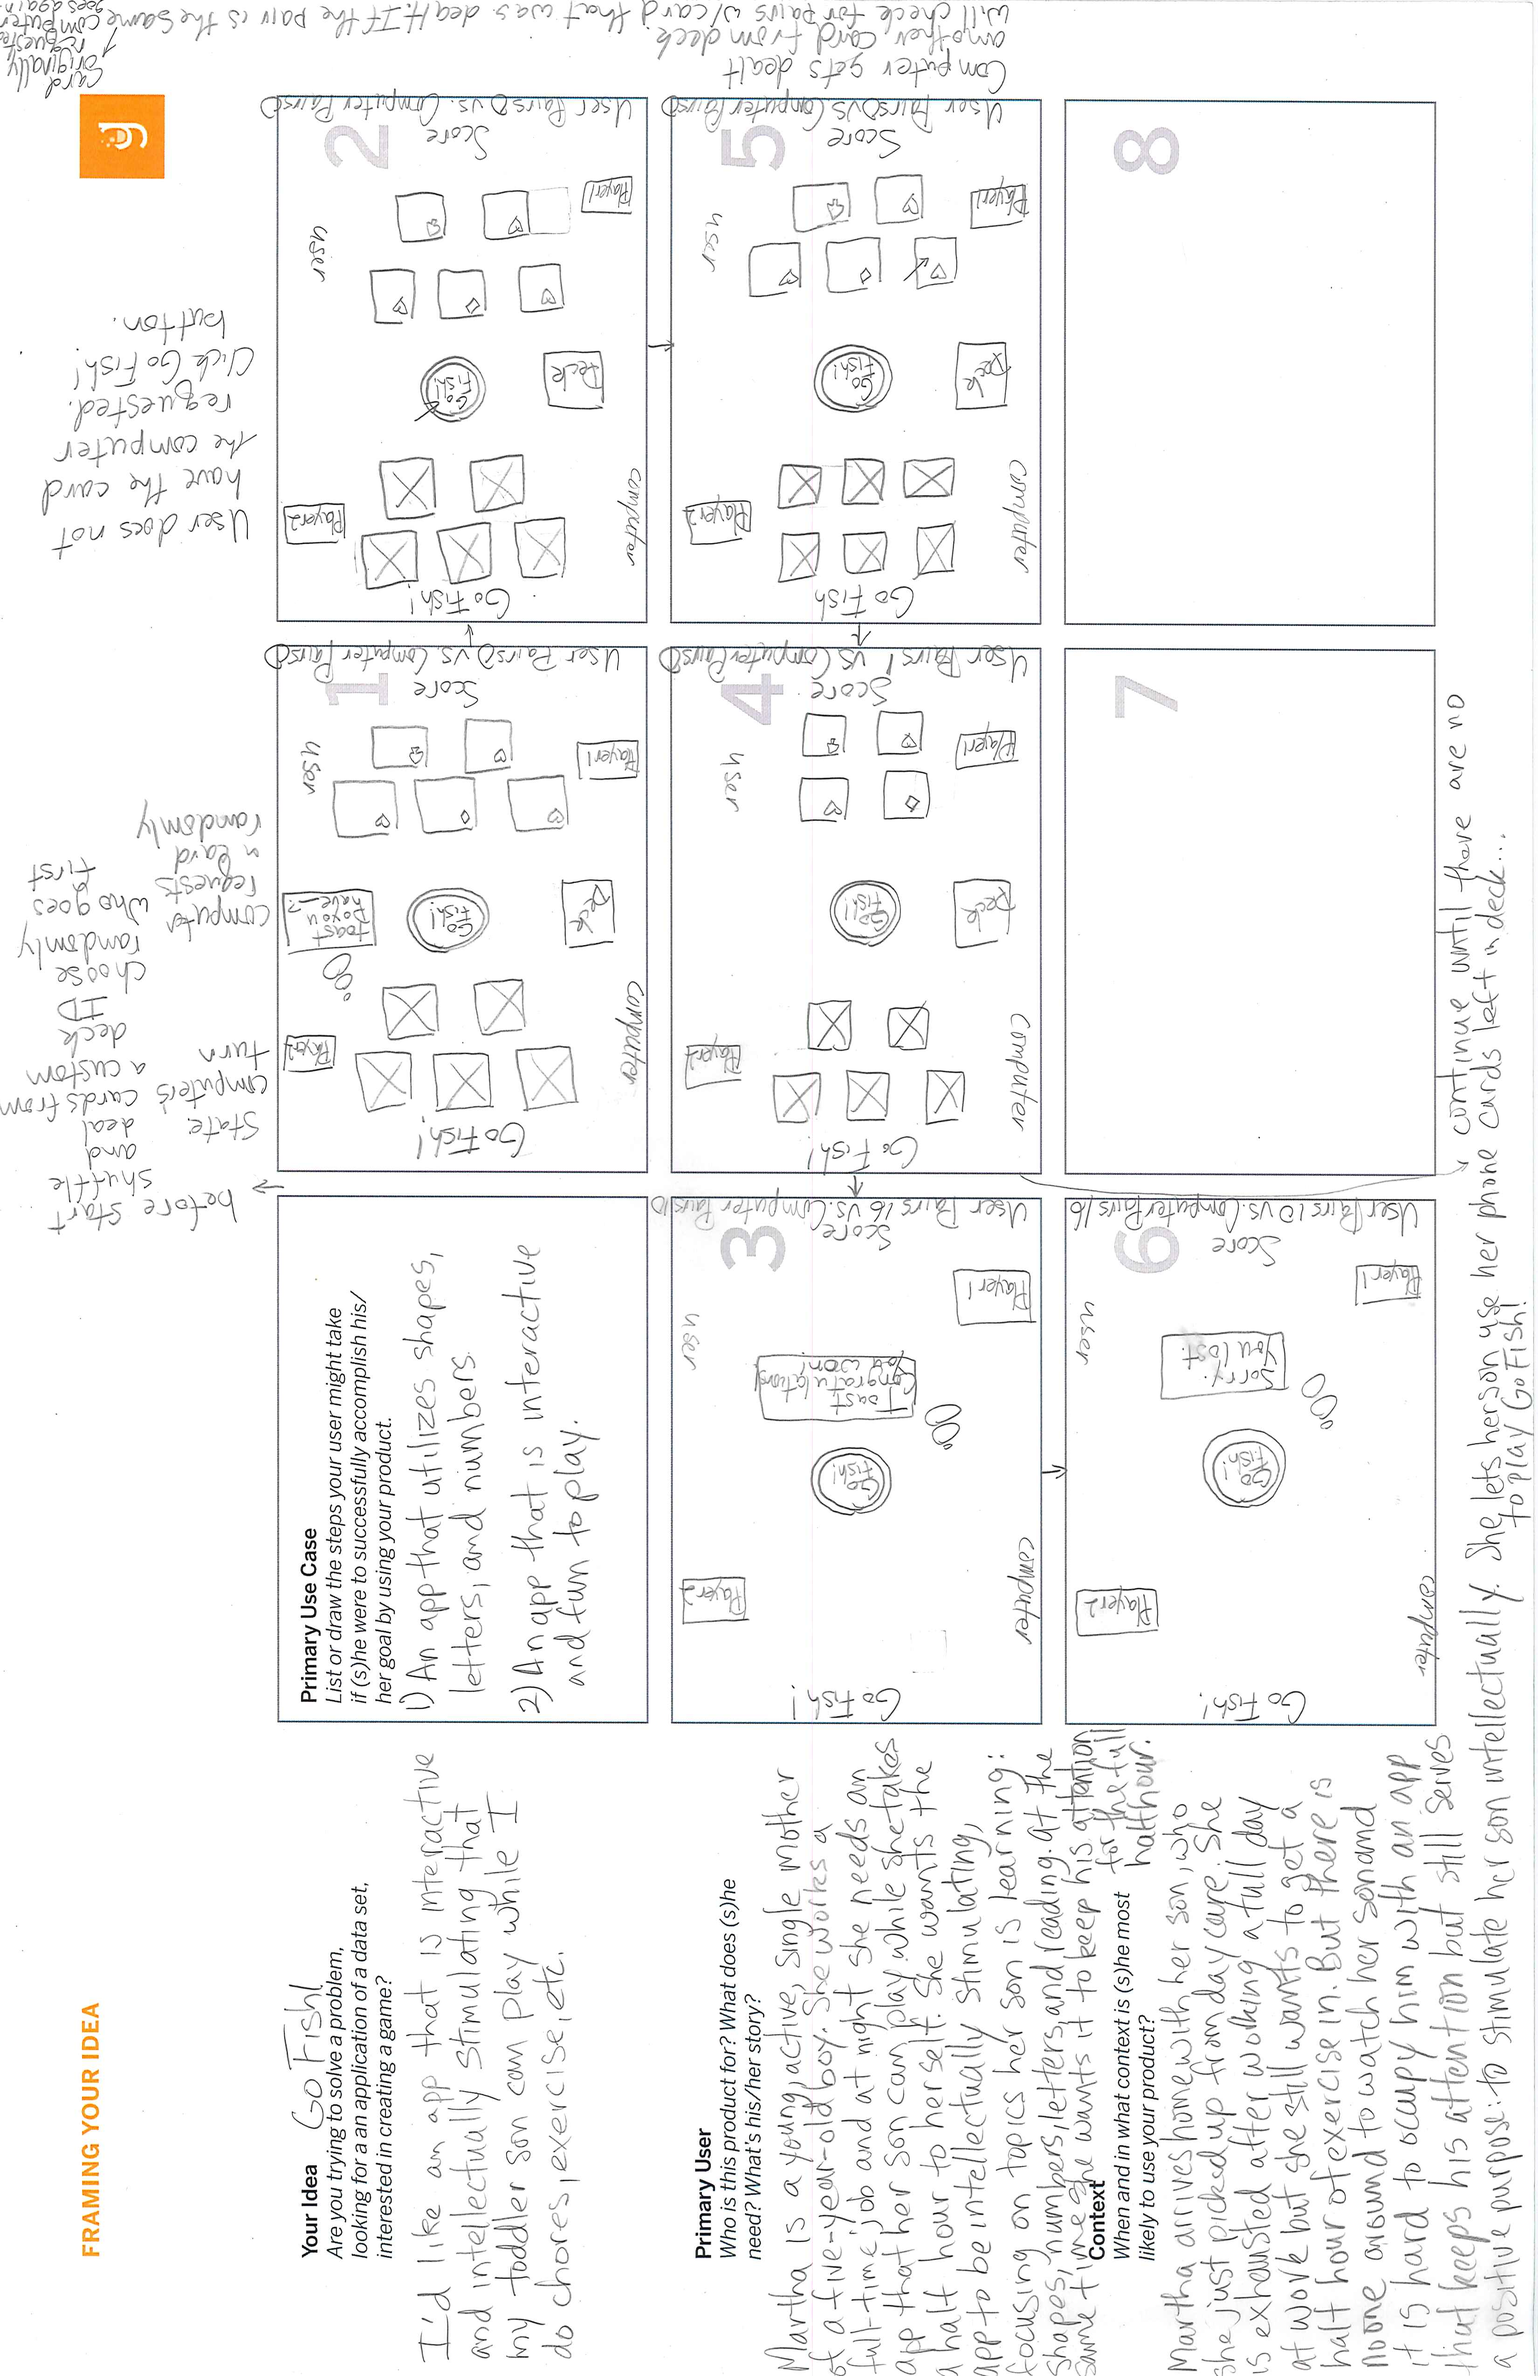
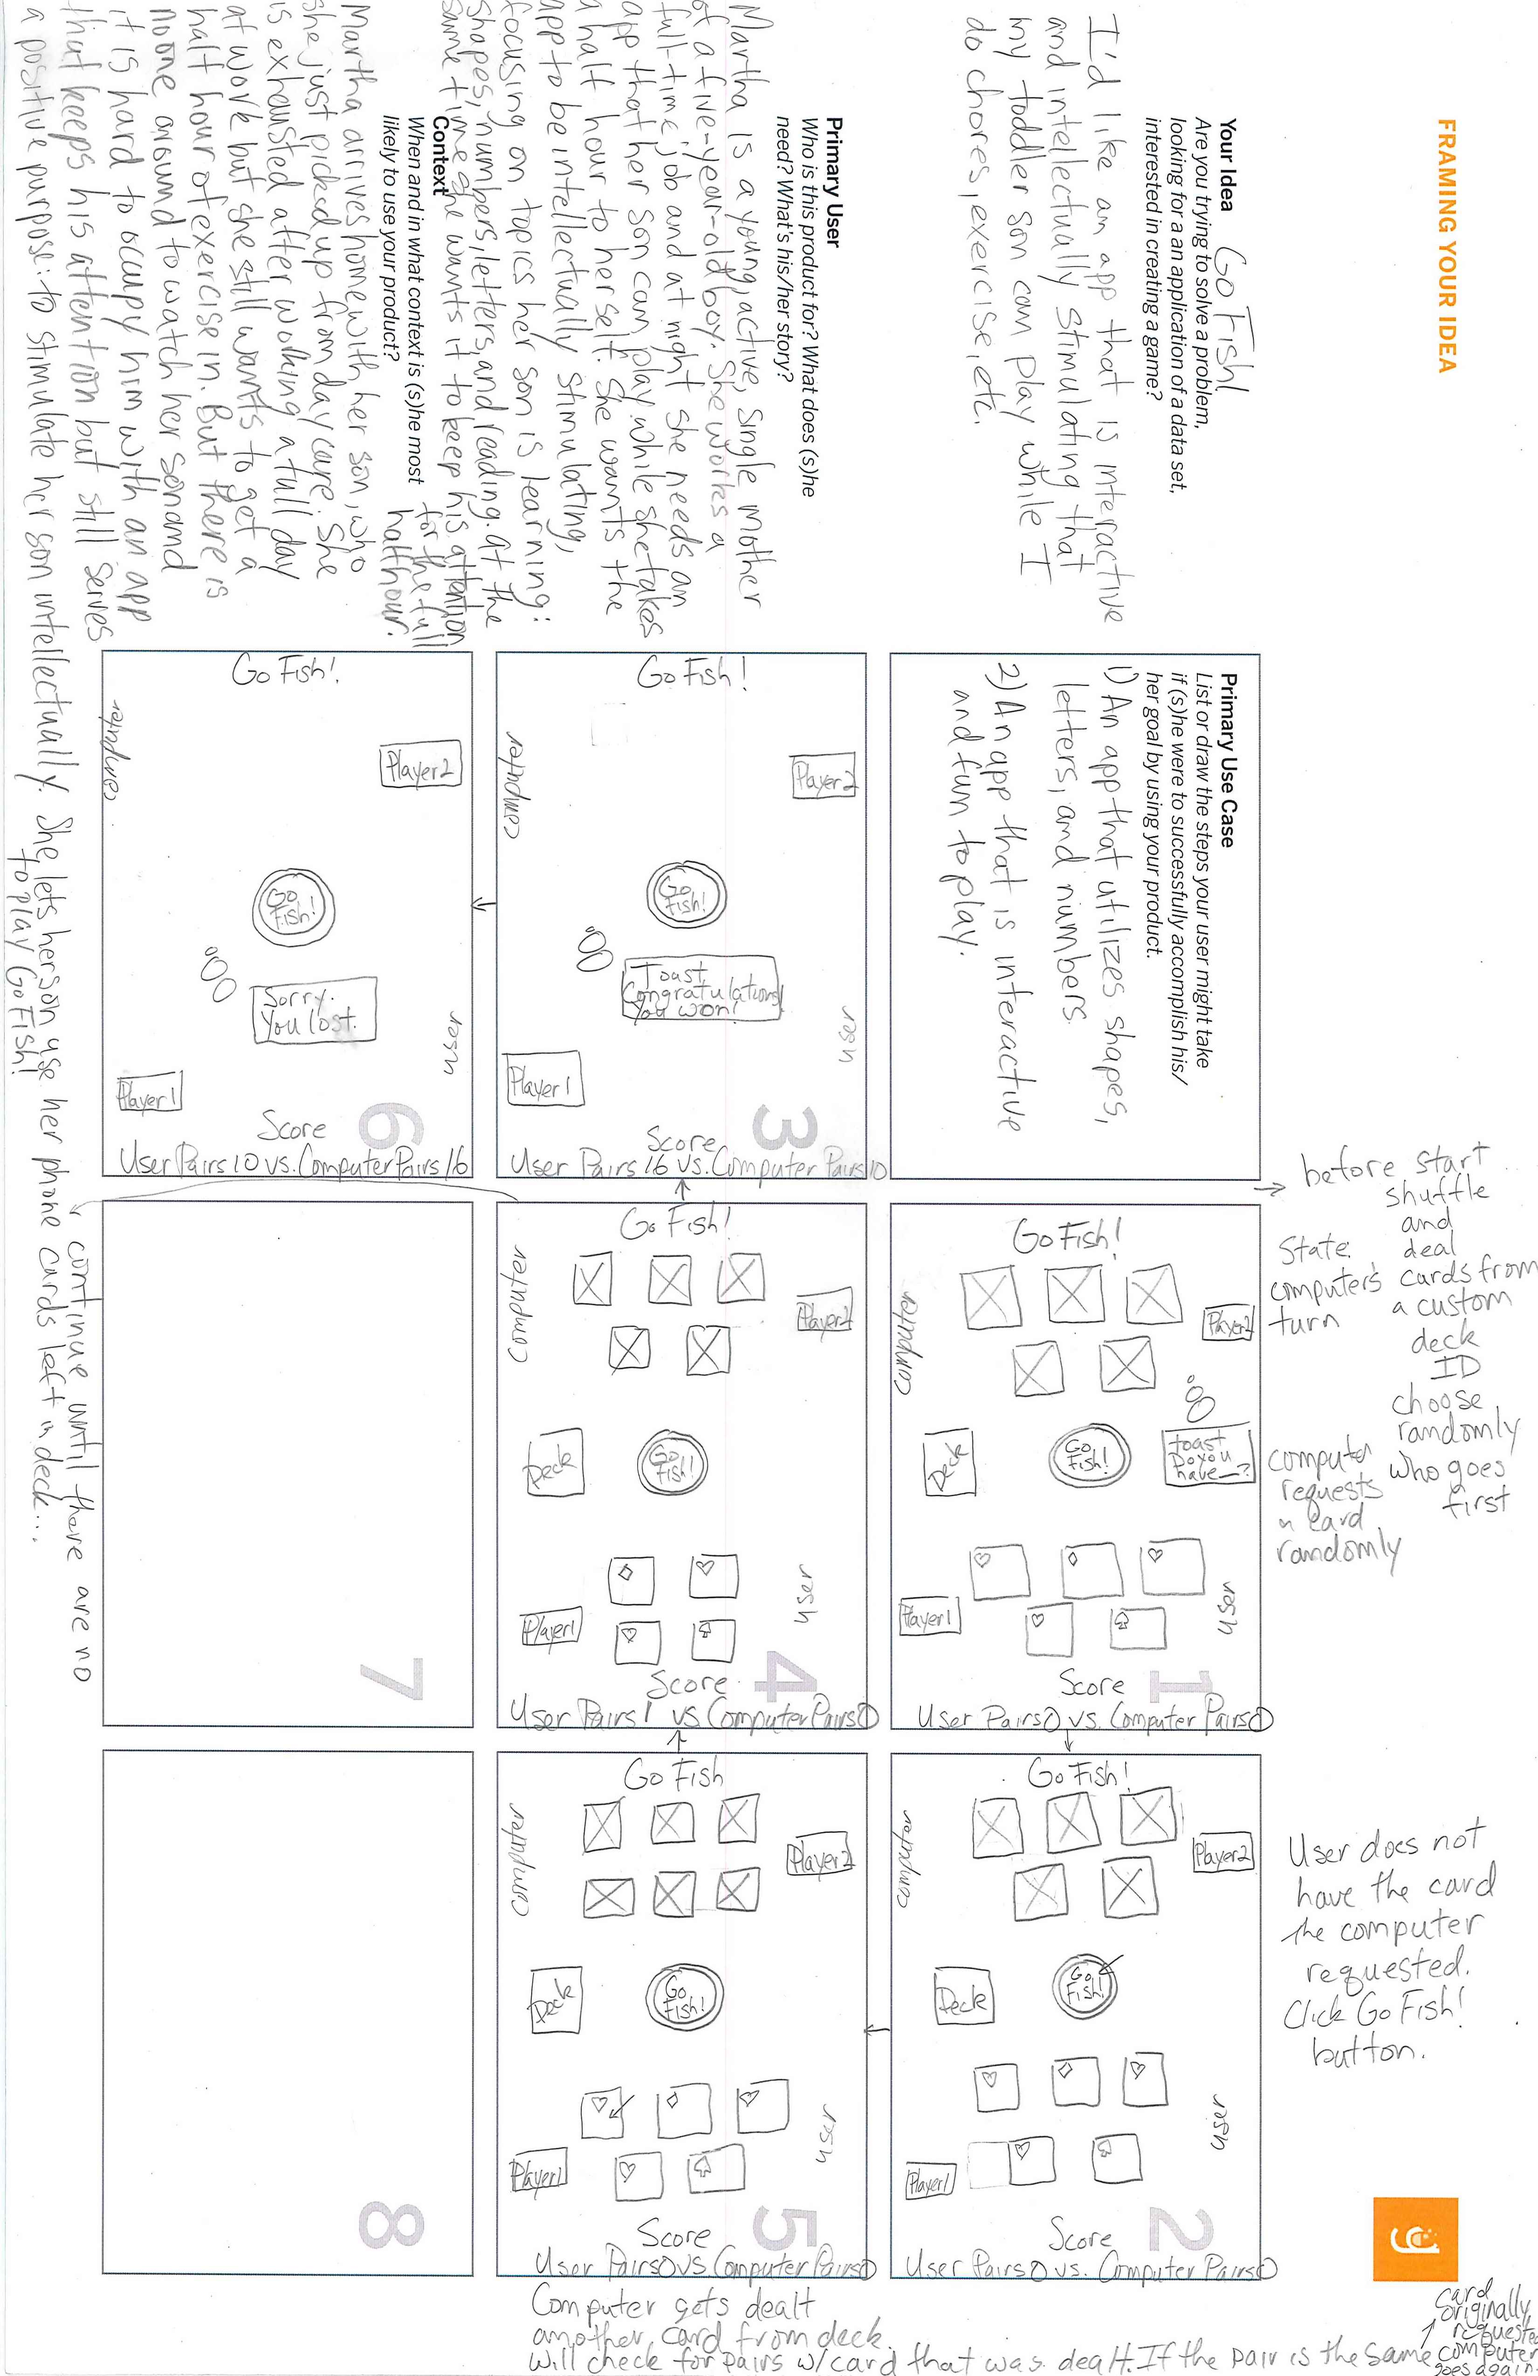
Close #6 Give ability to check for pairs

diff --git a/js/index.js b/js/index.js
@@ -1,5 +1,9 @@
 (function() {
   'use strict';
+
+  let userScore = 0;
+  let computerScore = 0;
+
   const $xhr = $.ajax({
     method: 'GET',
     url:
@@ -15,24 +19,21 @@
     const deckID = data.deck_id;
 
     console.log(deckID);
-    console.log(data.cards.length);
-    const playerCards = data.cards.map((playerCard) => {
+    let userCards = data.cards.map((userCard) => {
       return {
-        value: playerCard.value,
-        image: playerCard.image
+        value: userCard.value,
+        image: userCard.image
       };
     });
 
-    for (const playerCard of playerCards) {
+    for (const userCard of userCards) {
       const $span = $('#userHand');
       const $img = $('<img>').addClass('responsive-img playerCard');
 
-      $img.attr({ alt: 'Card', src: `${playerCard.image}` });
-
+      $img.attr({ alt: 'Card', src: `${userCard.image}` });
       $span.append($img);
     }
-    console.log(playerCards);
-
+    console.log(userCards);
     const $xhr2 = $.ajax({
       method: 'GET',
       url:
@@ -44,35 +45,180 @@
       if ($xhr2.status !== 200) {
         return;
       }
-      const randomCardRequest = function(compHand) {
-        const randomCardIndex = Math.floor(Math.random() * compHand.length);
-        const value = compHand[randomCardIndex].value;
-
-        Materialize.toast(`Do you have a ${value}?`, 6000);
-      };
-
-      console.log(data2.remaining);
-      console.log(data2.deck_id);
-
-      console.log(deckID);
-      console.log(data2.cards.length);
-      const computerCards = data2.cards.map((computerCard) => {
+      let computerCards = data2.cards.map((computerCard) => {
         return {
           value: computerCard.value,
           image: computerCard.image
         };
       });
-      // randomCardRequest(computerCards);
-      console.log(computerCards);
-      for (const computerCard of computerCards) {
-        const $span = $('#computerHand');
-        const $img = $('<img>').addClass('responsive-img imgCardBack');
+      const randomCardRequest = function(hand) {
+        const randomCardIndex = Math.floor(Math.random() * hand.length);
+        const value = hand[randomCardIndex].value;
 
-        $img.attr({ alt: 'Card', src: 'images/card_back.jpg' });
-        $span.append($img);
-      }
-      // const checkForPairs = function()
+        Materialize.toast(`Do you have a ${value}?`, 6000);
+      };
+
+      const renderComputerCards = function() {
+        const $span = $('#computerHand');
+
+        $span.empty();
+        for (const computerCard of computerCards) {
+          const $img = $('<img>').addClass('responsive-img imgCardBack');
+
+          $img.attr({ alt: 'Card', src: 'images/card_back.jpg' });
+          $span.append($img);
+        }
+      };
+
+      const renderUserCards = function() {
+        const $span = $('#userHand');
+
+        $span.empty();
+        for (const userCard of userCards) {
+          const $img = $('<img>').addClass('responsive-img playerCard');
+
+          $img.attr({ alt: 'Card', src: `${userCard.image}` });
+          $span.append($img);
+        }
+      };
+
+      const checkForPairsOnRequest = function(hand, cardRequest) {
+        const userHandFiltered = hand.filter((card) => {
+          return card.value !== cardRequest.value;
+        });
+        const computerHandFiltered = hand.filter((card) => {
+          return card.value !== cardRequest.value;
+        });
+
+        if (hand === userCards) {
+          if (userHandFiltered.length === hand.length) {
+            goFish(computerCards);
+          }
+          else {
+            userCards = userHandFiltered;
+            computerCards = computerHandFiltered;
+            computerScore += 1;
+            $('#computerScore').text(`Pair: ${computerScore}`);
+          }
+        }
+        else if (hand === computerCards) {
+          if (userHandFiltered.length === hand.length) {
+            goFish(userCards);
+          }
+          else {
+            userCards = userHandFiltered;
+            computerCards = computerHandFiltered;
+            userScore += 1;
+            $('#userScore').text(`Pair: ${userScore}`);
+          }
+        }
+        renderComputerCards();
+        renderUserCards();
+      };
+
+      const checkForPairsOnDraw = function(hand, cardCompare) {
+        const handFiltered = hand.filter((card) => {
+          return card.value !== cardCompare.value;
+        });
+
+        if (handFiltered.length === hand.length) {
+          hand.push(cardCompare);
+        }
+        else {
+          hand = handFiltered;
+          if (hand === userCards) {
+            userScore += 1;
+            $('#userScore').text(`Pair: ${userScore}`);
+          }
+          if (hand === computerCards) {
+            computerScore += 1;
+            $('#computerScore').text(`Pair: ${computerScore}`);
+          }
+        }
+        renderComputerCards();
+        renderUserCards();
+      };
+
+      const checkOwnHandForPairs = function(hand) {
+        const handValues = hand.map((card) => {
+          return card.value;
+        });
+
+        console.log(hand);
+
+        const cardsFound = {};
+
+        for (const value of handValues) {
+          if (cardsFound[value]) {
+            if (cardsFound[value] === 1) {
+              cardsFound[value] = 2;
+            }
+            else if (cardsFound[value] === 2) {
+              cardsFound[value] = 3;
+            }
+          }
+          else {
+            cardsFound[value] = 1;
+          }
+        }
+        console.log(cardsFound);
+        const cardsToDelete = [];
+
+        for (let i = 0; i < handValues.length; i++) {
+          if (cardsFound[handValues[i]] === 2 || cardsFound[handValues[i]] === 3) {
+            const firstIndex = handValues.indexOf(handValues[i]);
+            const lastIndex = handValues.lastIndexOf(handValues[i]);
+
+            if (cardsToDelete.indexOf(firstIndex) === -1) {
+              cardsToDelete.push(firstIndex);
+            }
+            if (cardsToDelete.indexOf(lastIndex) === -1) {
+              cardsToDelete.push(lastIndex);
+            }
+          }
+        }
+        const sortCardsToDelete = cardsToDelete.sort((a, b) => {
+          return b - a;
+        });
+
+        console.log(sortCardsToDelete);
+        for (const cardToDelete of sortCardsToDelete) {
+          hand.splice(cardToDelete, 1);
+        }
+        if (hand === userCards) {
+          userScore += (sortCardsToDelete.length) / 2;
+          $('#userScore').text(`Pairs: ${userScore}`);
+        }
+        else if (hand === computerCards) {
+          computerScore += (sortCardsToDelete.length) / 2;
+          $('#computerScore').text(`Pairs: ${computerScore}`);
+        }
+        renderUserCards();
+        renderComputerCards();
+      };
+
+      console.log(data2.remaining);
+      console.log(data2.deck_id);
+      console.log(deckID);
+      console.log(data2.cards.length);
+      console.log(computerCards);
+      // for (const computerCard of computerCards) {
+      //   const $span = $('#computerHand');
+      //   const $img = $('<img>').addClass('responsive-img imgCardBack');
+      //
+      //   $img.attr({ alt: 'Card', src: 'images/card_back.jpg' });
+      //   $span.append($img);
+      // }
+
+      checkOwnHandForPairs(computerCards);
+      checkOwnHandForPairs(userCards);
+
       let player = 'player1';
+
+      $('#goFish').off('click', () => {
+        goFish(computerCards);
+      });
+
       $('.playerCard').on('click', (event) => {
         if (player === 'player1') {
           // Check for pairs fn

diff --git a/index.html b/index.html
@@ -27,7 +27,7 @@
             <!--Computer Scoreboard-->
             <div class="row">
               <div class="col s6">
-                <h3 class="score">Pairs: 0</h3>
+                <h3 class="score" id="computerScore">Pairs: 0</h3>
               </div>
               <div class="col s6">
                 <h3 class="player">Player 1</h3>
@@ -58,7 +58,7 @@
             <!--Computer Scoreboard-->
             <div class="row">
               <div class="col s6">
-                <h3 class="score">Pairs: 0</h3>
+                <h3 class="score" id="userScore">Pairs: 0</h3>
               </div>
               <div class="col s6">
                 <h3 class="player">Player 2</h3>
